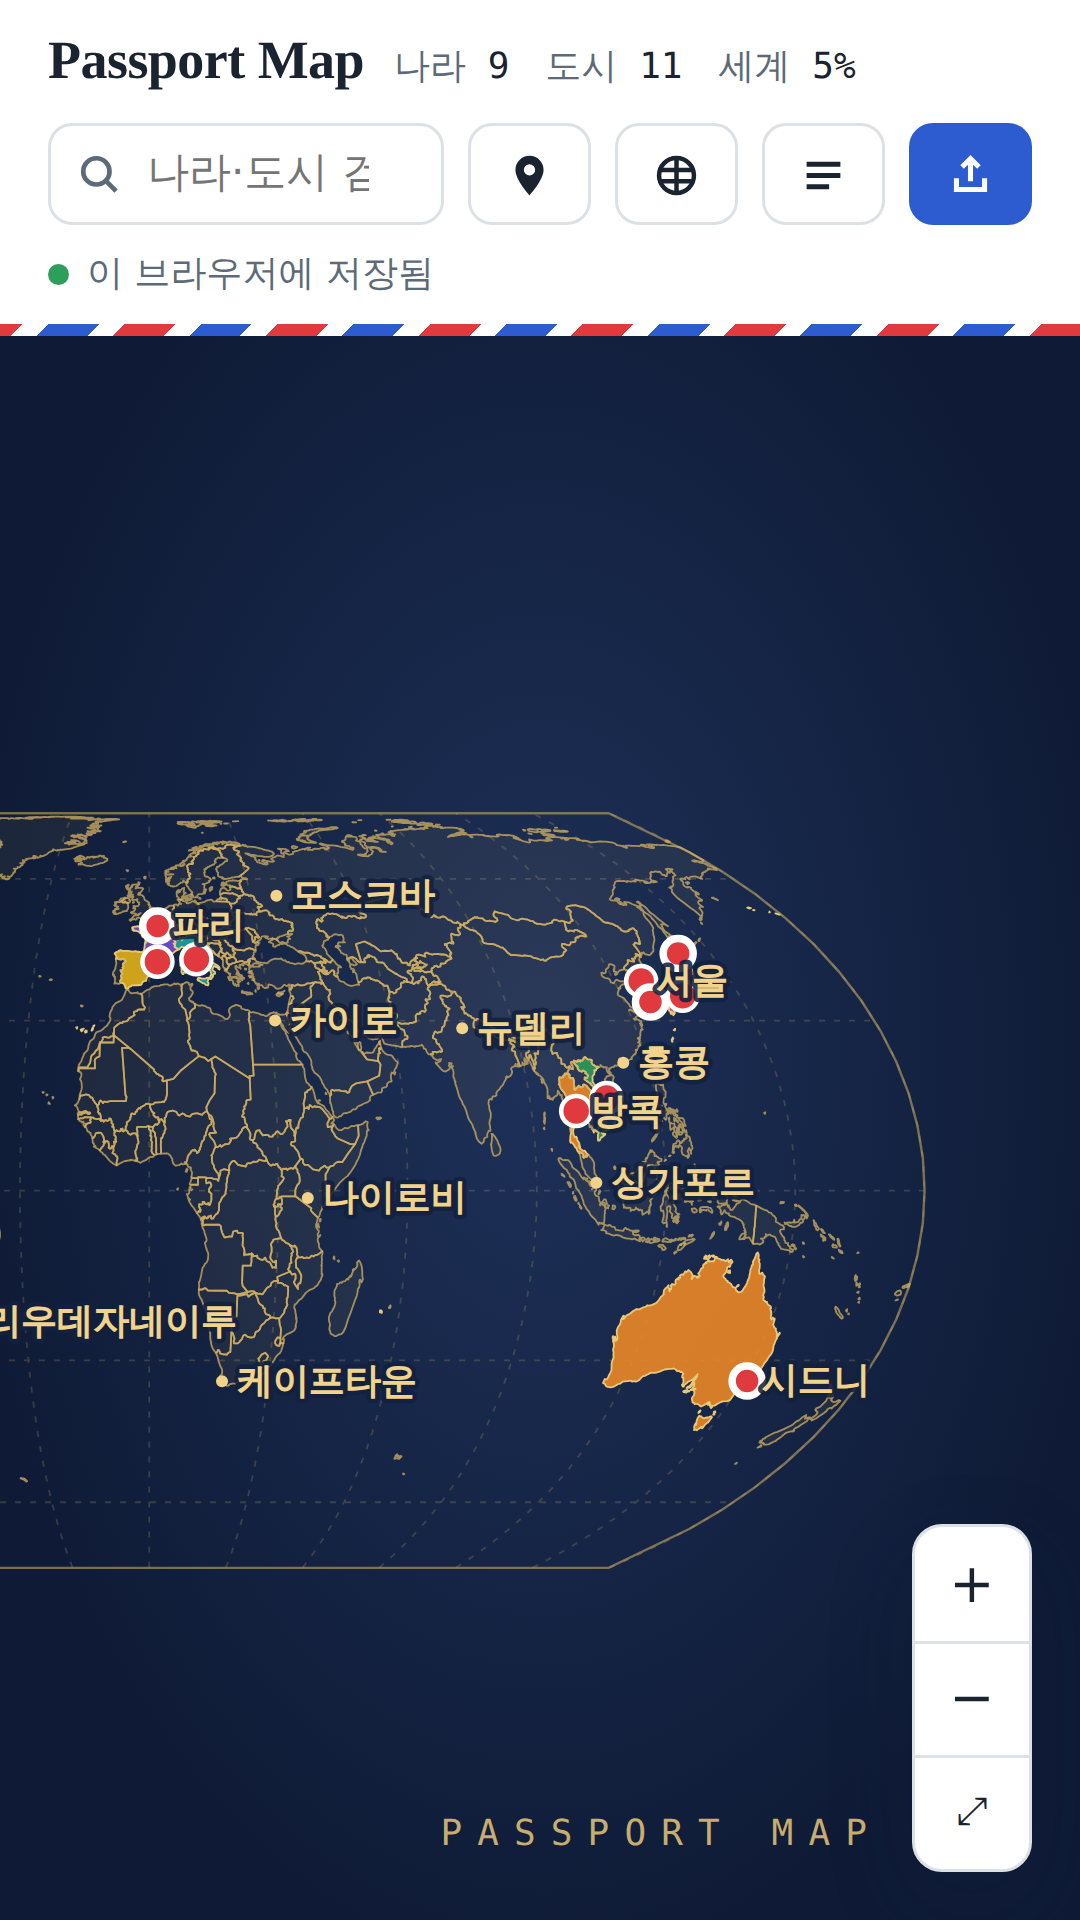
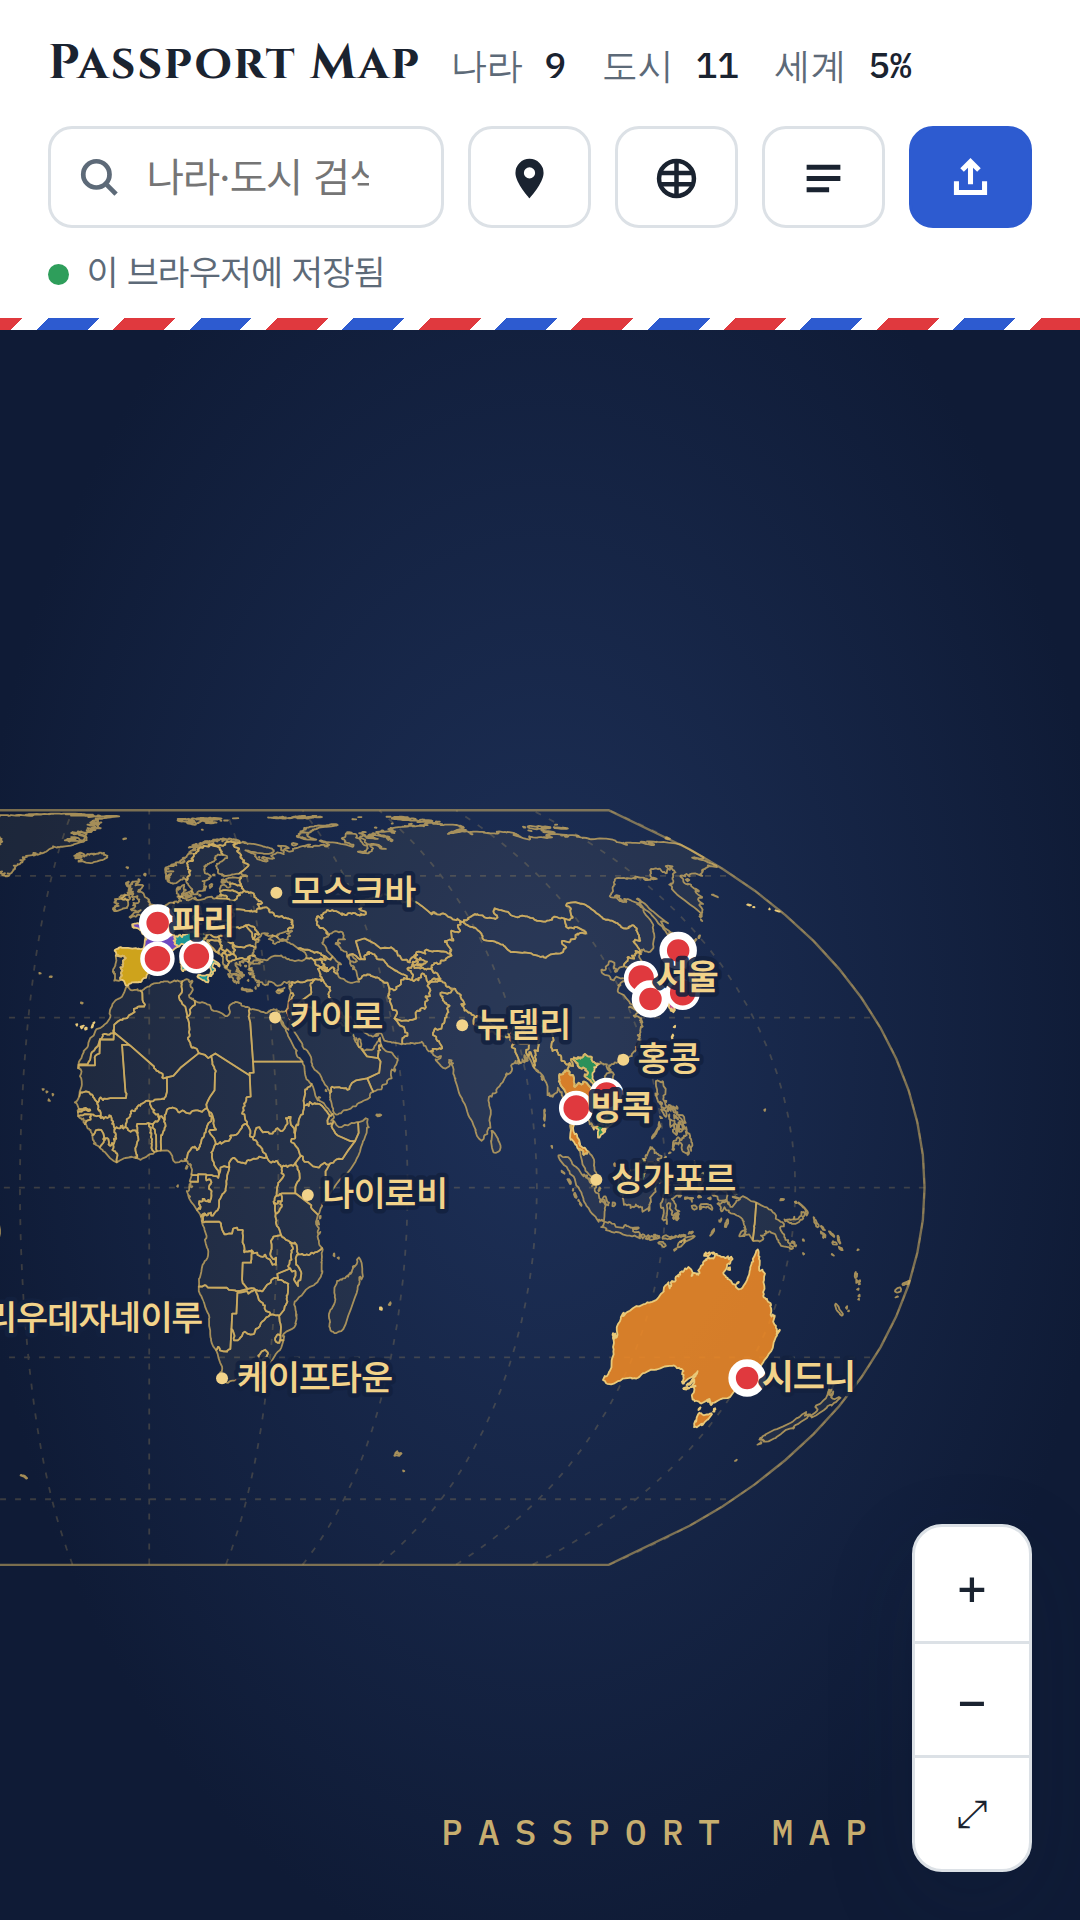
Passport Map 글꼴: 제목 Cinzel, 한글 본문 Pretendard (앱·공유 이미지·썸네일·스토어 그래픽·스크린샷)
Claude-Session: https://claude.ai/code/session_011tcMSH1CXV5mGu8py8oVy6

diff --git a/public/games/passport-map/index.html b/public/games/passport-map/index.html
@@ -9,7 +9,8 @@
 <meta name="description" content="Passport Map — 다녀온 나라와 도시를 세계지도에 색칠하고 사진을 남기는 여행 지도">
 <link rel="preconnect" href="https://fonts.googleapis.com">
 <link rel="preconnect" href="https://fonts.gstatic.com" crossorigin>
-<link rel="stylesheet" href="https://fonts.googleapis.com/css2?family=Hahmlet:wght@600;700&family=IBM+Plex+Mono:wght@500&family=IBM+Plex+Sans+KR:wght@400;500;600&display=swap">
+<link rel="stylesheet" href="https://fonts.googleapis.com/css2?family=Cinzel:wght@600;700;800&family=IBM+Plex+Mono:wght@500&display=swap">
+<link rel="stylesheet" href="https://cdn.jsdelivr.net/gh/orioncactus/pretendard@v1.3.9/dist/web/variable/pretendardvariable-dynamic-subset.min.css">
 <style>
 /* Layout: full-bleed map app — airmail-striped top bar, map fills the rest, detail panel slides in from the right (bottom sheet on phones) */
 :root{
@@ -17,8 +18,8 @@
   --visited:#2D5BD0; --visited-hover:#2149AE; --pin:#E0393E; --pin-ring:#FFFFFF;
   --ink:#1A2330; --muted:#5D6A78; --panel:#FFFFFF; --line:#DCE1E6; --chip:#EEF2F7;
   --bar:#FFFFFF; --shadow:0 10px 30px rgba(20,35,60,.16); --lab:#3A4654; --labh:rgba(248,247,243,.92);
-  --f-display:"Hahmlet","Noto Serif KR",Georgia,serif;
-  --f-body:"IBM Plex Sans KR","Apple SD Gothic Neo","Malgun Gothic",system-ui,sans-serif;
+  --f-display:"Cinzel","Pretendard Variable",Pretendard,"Apple SD Gothic Neo","Malgun Gothic",system-ui,sans-serif;
+  --f-body:"Pretendard Variable",Pretendard,"Apple SD Gothic Neo","Malgun Gothic",system-ui,sans-serif;
   --f-mono:"IBM Plex Mono",ui-monospace,Menlo,Consolas,monospace;
 }
 @media (prefers-color-scheme: dark){:root:not([data-theme="light"]){
@@ -45,7 +46,7 @@ button{cursor:pointer}
 .bar::after{content:"";position:absolute;left:0;right:0;bottom:0;height:4px;
   background:repeating-linear-gradient(-45deg,var(--pin) 0 12px,transparent 12px 18px,var(--visited) 18px 30px,transparent 30px 36px)}
 .brand{display:flex;align-items:baseline;gap:10px;min-width:0}
-.brand h1{font-family:var(--f-display);font-size:20px;margin:0;letter-spacing:-.01em;white-space:nowrap}
+.brand h1{font-family:var(--f-display);font-weight:700;font-size:19px;margin:0;letter-spacing:.04em;white-space:nowrap}
 .stats{display:flex;gap:12px;font-family:var(--f-mono);font-size:12px;color:var(--muted);white-space:nowrap}
 .stats b{color:var(--ink);font-weight:500;font-variant-numeric:tabular-nums}
 .tools{display:flex;gap:8px;align-items:center;margin-left:auto;flex-wrap:wrap}
@@ -253,7 +254,7 @@ input,button,select,textarea{box-sizing:border-box}
 .gate{position:fixed;inset:0;z-index:60;display:grid;place-items:center;padding:16px;background:color-mix(in srgb,#0B1630 55%,transparent);backdrop-filter:blur(3px);-webkit-backdrop-filter:blur(3px)}
 .gate-card{width:min(380px,100%);background:#13213F;color:#F3ECDC;border:1px solid rgba(221,183,102,.55);border-radius:20px;padding:28px 22px 20px;display:grid;gap:14px;text-align:center;box-shadow:0 24px 60px rgba(0,0,0,.45);box-sizing:border-box}
 .gate-stamp{width:92px;height:92px;margin:0 auto;color:#E0485A;transform:rotate(-10deg)}
-.gate-card h2{margin:0;font-family:var(--f-display);font-size:30px;letter-spacing:.02em;color:#F2D38A}
+.gate-card h2{margin:0;font-family:var(--f-display);font-weight:700;font-size:28px;letter-spacing:.05em;color:#F2D38A}
 .gate-card p{margin:0;word-break:keep-all;color:rgba(243,236,220,.8);line-height:1.6;font-size:14px}
 .gate-btns{display:grid;gap:10px;margin-top:4px}
 .gate-btns button{height:50px;border-radius:12px;border:0;font-size:15.5px;font-weight:600;display:flex;align-items:center;justify-content:center;gap:8px;cursor:pointer}
@@ -271,7 +272,7 @@ input,button,select,textarea{box-sizing:border-box}
 @media (max-width:720px){.dlg{grid-template-columns:1fr}.dlg .pv{min-height:0;padding:14px}.dlg .pv canvas{max-height:42vh}}
 
 @media (max-width:720px){
-  .brand h1{font-size:18px}
+  .brand h1{font-size:16px}
   .tools{margin-left:0;width:100%}
   .search{flex:1}.search input{width:100%;max-width:none}
   .btn .tx{display:none}
@@ -1143,7 +1144,7 @@ function stripePattern(x){const c=document.createElement('canvas');c.width=c.hei
   g.lineWidth=11;[['#E0393E',0],['#2D5BD0',24]].forEach(([col,o])=>{g.strokeStyle=col;for(let k=-2;k<3;k++){g.beginPath();g.moveTo(o+k*48-10,58);g.lineTo(o+k*48+58,-10);g.stroke()}});return x.createPattern(c,'repeat')}
 async function renderCard(cv,F,P,seq){
   const [W,H]=FMT[F];
-  try{await Promise.all([document.fonts.load('700 40px Hahmlet'),document.fonts.load('600 30px "IBM Plex Sans KR"'),document.fonts.load('400 30px "IBM Plex Sans KR"'),document.fonts.load('500 20px "IBM Plex Mono"')])}catch(e){}
+  try{await Promise.all([document.fonts.load('700 40px Cinzel'),document.fonts.load('600 30px "Pretendard Variable"','나라도시'),document.fonts.load('400 30px "Pretendard Variable"','나라도시'),document.fonts.load('500 20px "IBM Plex Mono"')])}catch(e){}
   const items=[];for(const id in S.countries){const st=S.countries[id];if(st.photo)items.push({p:st.photo,name:nmC(C[id]),color:st.color||DEF_C})}
   S.cities.forEach(ct=>{if(ct.photo)items.push({p:ct.photo,name:nmCt(ct),color:ct.color||DEF_P})});
   const maxPh=P?({sq:4,pt:6,ls:0})[F]:0;const use=items.slice(0,maxPh);
@@ -1151,7 +1152,7 @@ async function renderCard(cv,F,P,seq){
   if(seq&&seq!==shSeq)return false;
   cv.width=W;cv.height=H;const x=cv.getContext('2d');
   const TC=CARD[TH]||CARD.basic;const BG=TC.bg,BORDER=TC.line,INK=TC.ink,MUTED=TC.muted;
-  const DISP='Hahmlet,"Noto Serif KR",serif',BODY='"IBM Plex Sans KR","Apple SD Gothic Neo","Malgun Gothic",sans-serif',MONO='"IBM Plex Mono",Menlo,monospace';
+  const DISP='Cinzel,"Pretendard Variable",Pretendard,"Apple SD Gothic Neo","Malgun Gothic",system-ui,sans-serif',BODY='"Pretendard Variable",Pretendard,"Apple SD Gothic Neo","Malgun Gothic",system-ui,sans-serif',MONO='"IBM Plex Mono",Menlo,monospace';
   x.fillStyle=stripePattern(x);x.fillRect(0,0,W,H);const B=16;x.fillStyle=BG;rrect(x,B,B,W-2*B,H-2*B,10);x.fill();
   const n=Object.keys(S.countries).length,m=S.cities.length,pc=Math.round(n/195*100);
   const pad=F==='ls'?48:60;

diff --git a/src/lib/games.ts b/src/lib/games.ts
@@ -190,7 +190,7 @@ const CATALOG: Game[] = [
       en: "Color the countries and cities you've visited on a world map and pin one photo to each place. Log in to keep it in your account and make a share image for social media",
     },
     genre: "casual",
-    thumb: "/thumbs/passport-map.jpg?v=4",
+    thumb: "/thumbs/passport-map.jpg?v=5",
     src: "/games/passport-map/index.html",
     saves: true,
   },
